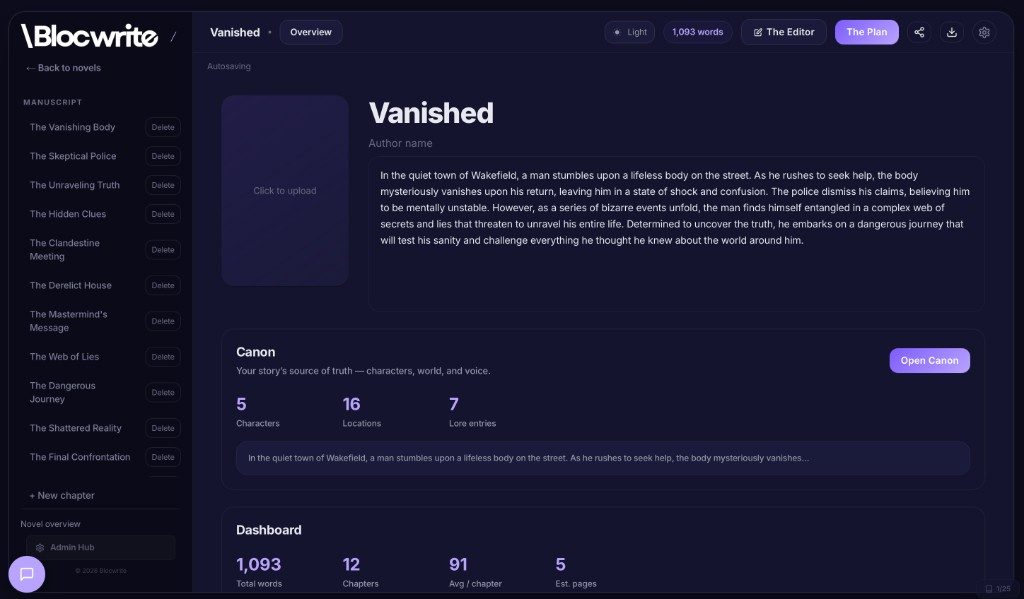
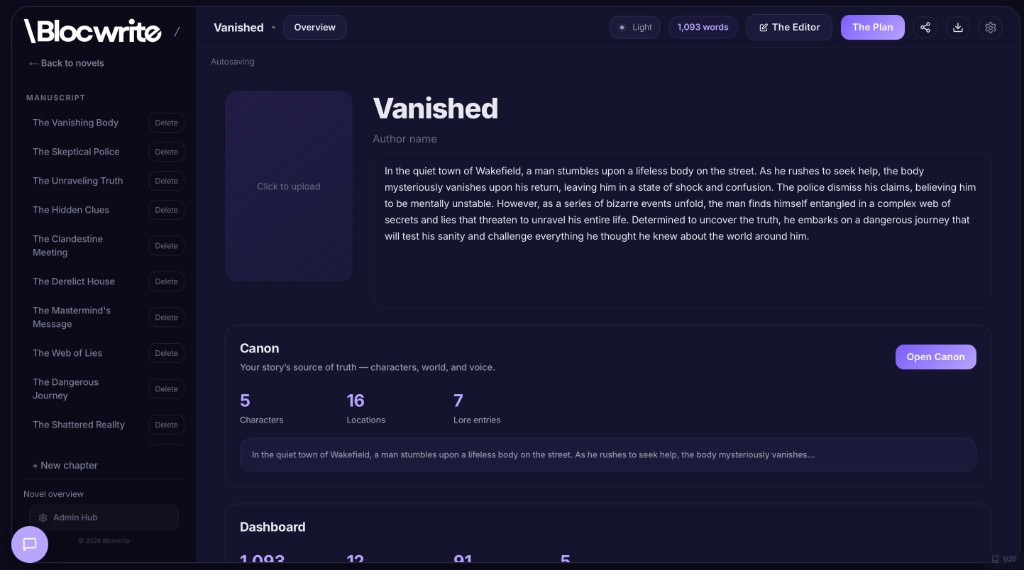
Swap in all 5 real app screenshots for landing page previews
- Hero: studio overview with chapters, Canon stats, Dashboard
- Plot Spine: Canon modal showing spine score, tension arc, character presence
- Canon: Bolt-Ons with craft directives and active directive display
- Blocs: chapter editor with scene blocks, word targets, prose generation
- Non-Fiction: Life Events with emotion, impact, people, places fields
- Each preview fades into its section background (light or dark)
- Removed old lower-res canon-characters.png

diff --git a/app/page.tsx b/app/page.tsx
@@ -238,34 +238,33 @@ function TrustBar() {
 }
 
 /* ── Screenshot-based preview with fade ── */
-function ScreenshotPreview({ src, alt }: { src: string; alt: string }) {
+function ScreenshotPreview({ src, alt, fadeTo = "#0c0c1d" }: { src: string; alt: string; fadeTo?: string }) {
   return (
-    <div style={{ position: "relative", borderRadius: 14, overflow: "hidden", boxShadow: "0 20px 60px rgba(0,0,0,0.4)" }}>
+    <div style={{ position: "relative", borderRadius: 14, overflow: "hidden", boxShadow: "0 20px 60px rgba(0,0,0,0.35)" }}>
       <img src={src} alt={alt} style={{ width: "100%", height: "auto", display: "block" }} />
-      <div style={{ position: "absolute", bottom: 0, left: 0, right: 0, height: "40%", background: "linear-gradient(to top, #0c0c1d 0%, transparent 100%)", pointerEvents: "none" }} />
-      <div style={{ position: "absolute", top: 0, right: 0, bottom: 0, width: "15%", background: "linear-gradient(to left, #0c0c1d 0%, transparent 100%)", pointerEvents: "none" }} />
+      <div style={{ position: "absolute", bottom: 0, left: 0, right: 0, height: "35%", background: `linear-gradient(to top, ${fadeTo} 0%, transparent 100%)`, pointerEvents: "none" }} />
     </div>
   );
 }
 
 function PlotSpinePreview() {
-  return <ScreenshotPreview src="/previews/canon-characters.png" alt="Blocwrite Canon — Plot Spine" />;
+  return <ScreenshotPreview src="/previews/plot-spine.png" alt="Blocwrite Plot Spine — story beats, tension arc, character presence" fadeTo="#fafaf9" />;
 }
 
 function CanonPreview() {
-  return <ScreenshotPreview src="/previews/canon-characters.png" alt="Blocwrite Canon — Characters" />;
+  return <ScreenshotPreview src="/previews/bolt-ons.png" alt="Blocwrite Canon — Bolt-Ons and craft directives" fadeTo="#fafaf9" />;
 }
 
 function BlocsPreview() {
-  return <ScreenshotPreview src="/previews/studio-overview.png" alt="Blocwrite Scene Blocs" />;
+  return <ScreenshotPreview src="/previews/blocs.png" alt="Blocwrite Scene Blocs — chapter editor with scene-by-scene drafting" fadeTo="#fafaf9" />;
 }
 
 function NFPreview() {
-  return <ScreenshotPreview src="/previews/canon-characters.png" alt="Blocwrite Non-Fiction Canon" />;
+  return <ScreenshotPreview src="/previews/non-fiction.png" alt="Blocwrite Non-Fiction — Life Events for biography and memoir" fadeTo="#0c0c1d" />;
 }
 
 function HeroAppPreview() {
-  return <ScreenshotPreview src="/previews/studio-overview.png" alt="Blocwrite Studio Overview" />;
+  return <ScreenshotPreview src="/previews/studio-overview.png" alt="Blocwrite Studio — novel overview with Canon and Dashboard" fadeTo="#14142e" />;
 }
 
 function ShowcaseSection() {
